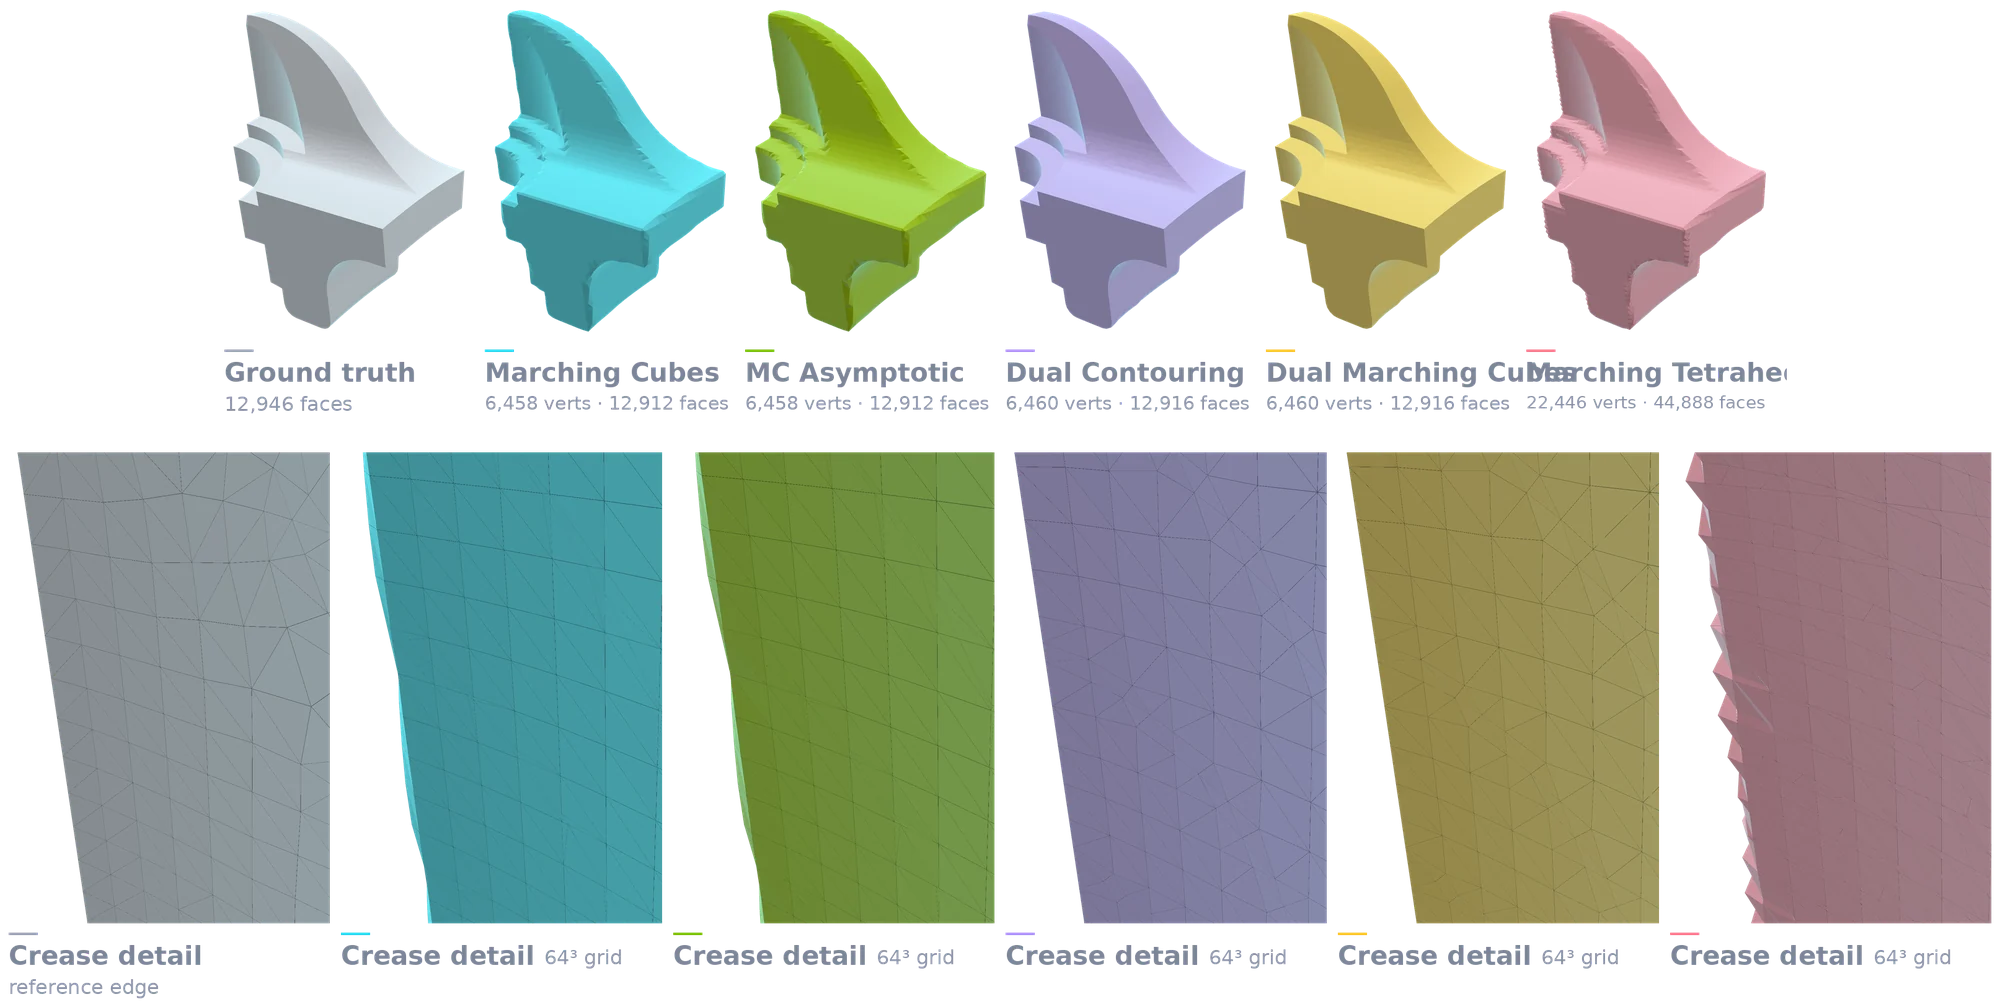
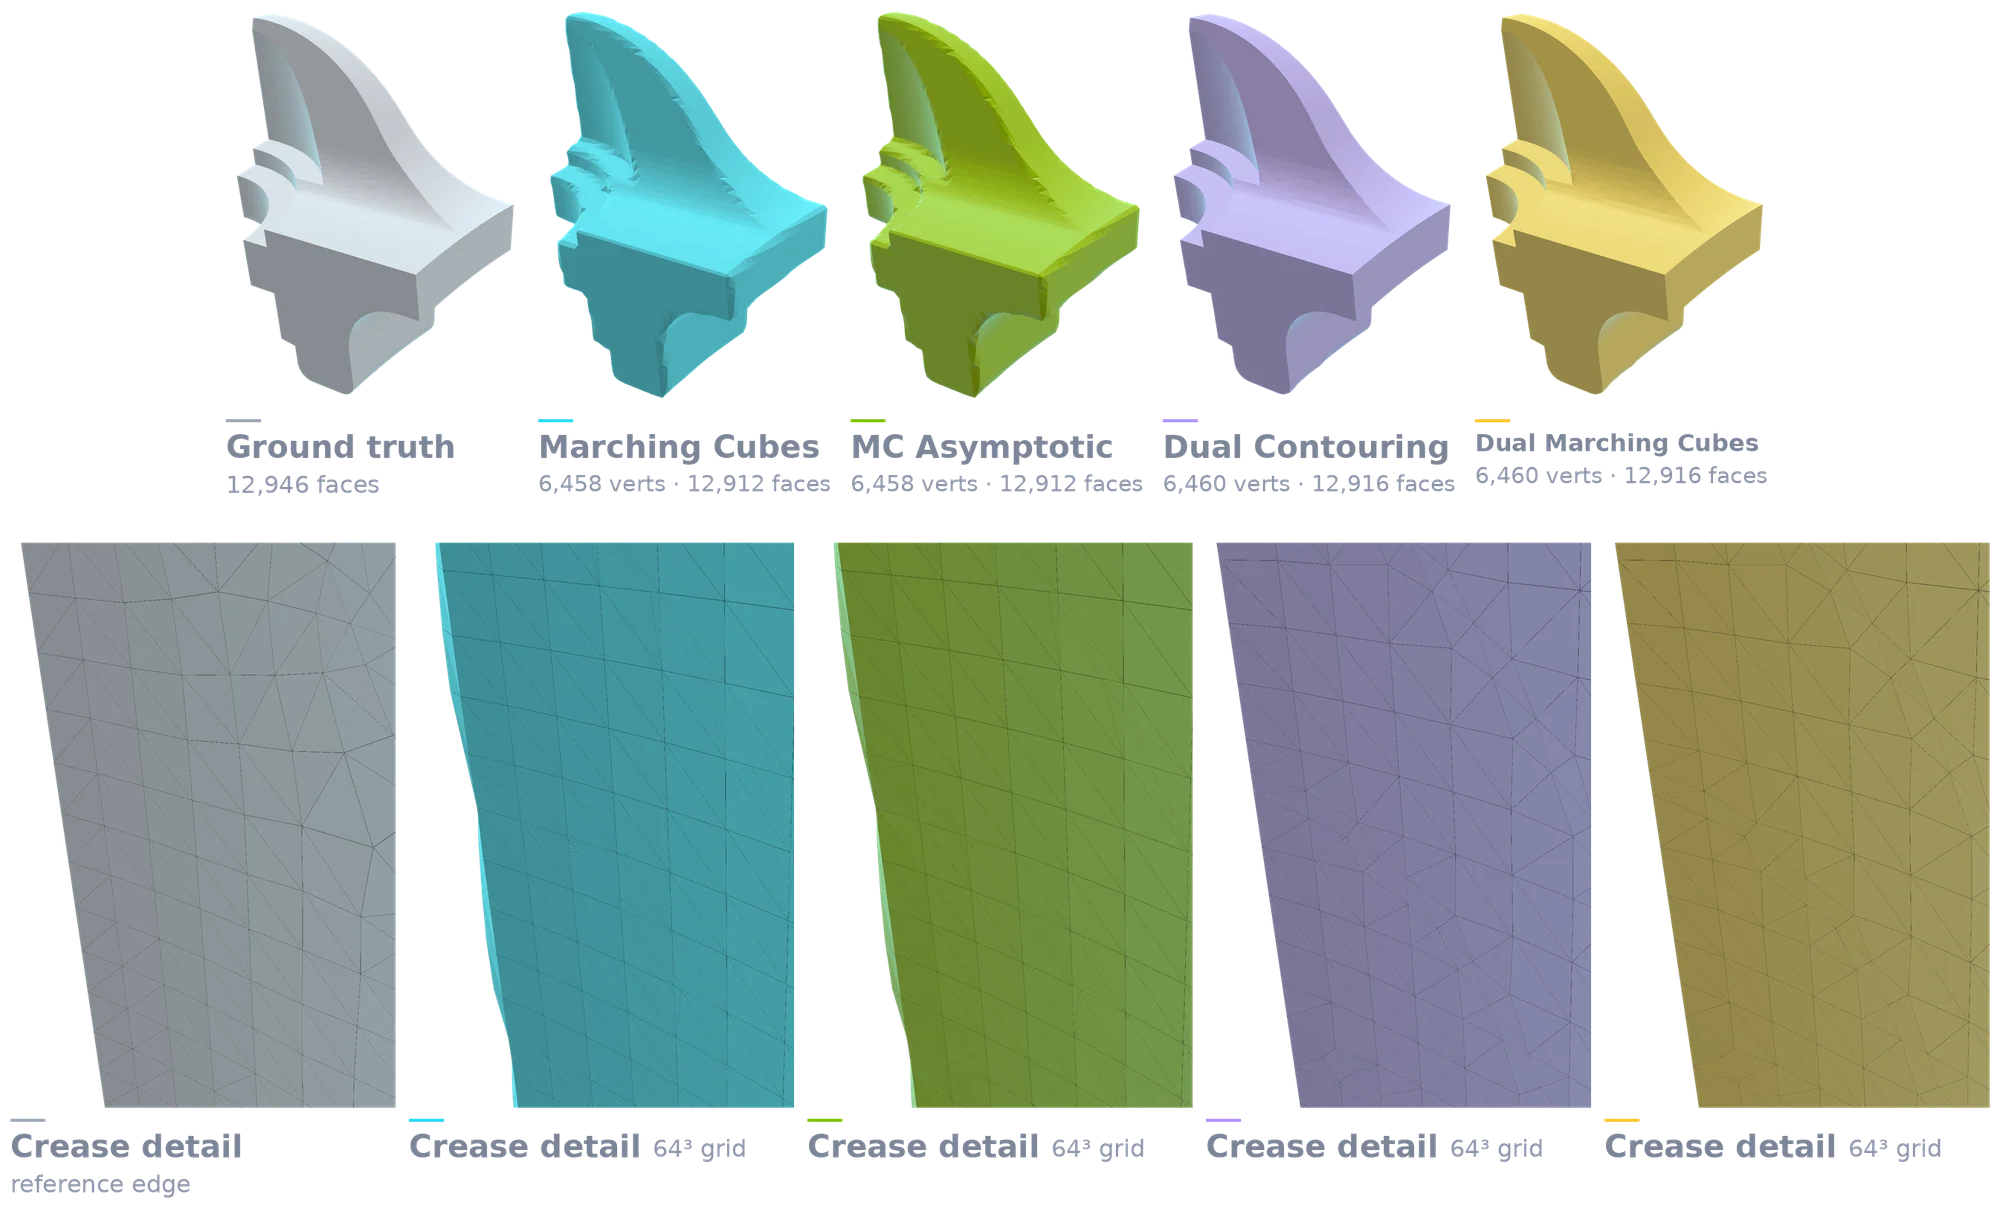
docs: drop Marching Tetrahedra from the extractor comparison
Claude-Session: https://claude.ai/code/session_01Feb3yoQjHYvNcwnLccMKf4

diff --git a/docs/index.html b/docs/index.html
@@ -94,7 +94,7 @@ verts.<span class="tok-fn">sum</span>().<span class="tok-fn">backward</span>()  
   <div class="section-head">
     <span class="kicker">Qualitative results</span>
   </div>
-  <div class="fig-grid fig-grid--wide" style="grid-template-columns:minmax(0,1fr)"><figure class="fig"><div class="fig-media"><img src="assets/img/fig-pipeline.webp?v=578c53aa73" alt="Extraction pipeline" loading="lazy" decoding="async"></div><figcaption class="fig-body"><span class="fig-kicker">Pipeline</span><h3>Extraction pipeline</h3><p>Every stage of one extraction, from input mesh to extracted surface.</p></figcaption></figure><figure class="fig"><div class="fig-media"><img src="assets/img/fig-algorithms.webp?v=de05664785" alt="Isosurface extraction" loading="lazy" decoding="async"></div><figcaption class="fig-body"><span class="fig-kicker">Comparison</span><h3>Isosurface extraction</h3><p>One signed distance field meshed by five different extractors.</p></figcaption></figure><figure class="fig"><div class="fig-media"><img src="assets/img/fig-hermite.webp?v=e53e14b4f2" alt="Sharp features" loading="lazy" decoding="async"></div><figcaption class="fig-body"><span class="fig-kicker">Sharpness</span><h3>Sharp features</h3><p>Exact Hermite data lets the dual methods reconstruct a crease instead of rounding it.</p></figcaption></figure><figure class="fig"><div class="fig-media"><img src="assets/img/fig-resolution.webp?v=08edc92823" alt="Grid resolution" loading="lazy" decoding="async"></div><figcaption class="fig-body"><span class="fig-kicker">Scaling</span><h3>Grid resolution</h3><p>The same model extracted from 64³ up to 2048³, with the error measured at each step.</p></figcaption></figure><figure class="fig"><div class="fig-media"><img src="assets/img/fig-sign-modes.webp?v=f3392288ba" alt="Sign modes" loading="lazy" decoding="async"></div><figcaption class="fig-body"><span class="fig-kicker">Robustness</span><h3>Sign modes</h3><p>One slice through a mesh, signed by each of the six ways of deciding inside.</p></figcaption></figure><figure class="fig"><div class="fig-media"><img src="assets/img/fig-normals.webp?v=e1814289ea" alt="Surface normals" loading="lazy" decoding="async"></div><figcaption class="fig-body"><span class="fig-kicker">Orientation</span><h3>Surface normals</h3><p>Normals from five extractors, coloured by direction and compared to the source.</p></figcaption></figure></div>
+  <div class="fig-grid fig-grid--wide" style="grid-template-columns:minmax(0,1fr)"><figure class="fig"><div class="fig-media"><img src="assets/img/fig-pipeline.webp?v=578c53aa73" alt="Extraction pipeline" loading="lazy" decoding="async"></div><figcaption class="fig-body"><span class="fig-kicker">Pipeline</span><h3>Extraction pipeline</h3><p>Every stage of one extraction, from input mesh to extracted surface.</p></figcaption></figure><figure class="fig"><div class="fig-media"><img src="assets/img/fig-algorithms.webp?v=0e6101368e" alt="Isosurface extraction" loading="lazy" decoding="async"></div><figcaption class="fig-body"><span class="fig-kicker">Comparison</span><h3>Isosurface extraction</h3><p>One signed distance field meshed by four different extractors.</p></figcaption></figure><figure class="fig"><div class="fig-media"><img src="assets/img/fig-hermite.webp?v=e53e14b4f2" alt="Sharp features" loading="lazy" decoding="async"></div><figcaption class="fig-body"><span class="fig-kicker">Sharpness</span><h3>Sharp features</h3><p>Exact Hermite data lets the dual methods reconstruct a crease instead of rounding it.</p></figcaption></figure><figure class="fig"><div class="fig-media"><img src="assets/img/fig-resolution.webp?v=08edc92823" alt="Grid resolution" loading="lazy" decoding="async"></div><figcaption class="fig-body"><span class="fig-kicker">Scaling</span><h3>Grid resolution</h3><p>The same model extracted from 64³ up to 2048³, with the error measured at each step.</p></figcaption></figure><figure class="fig"><div class="fig-media"><img src="assets/img/fig-sign-modes.webp?v=f3392288ba" alt="Sign modes" loading="lazy" decoding="async"></div><figcaption class="fig-body"><span class="fig-kicker">Robustness</span><h3>Sign modes</h3><p>One slice through a mesh, signed by each of the six ways of deciding inside.</p></figcaption></figure><figure class="fig"><div class="fig-media"><img src="assets/img/fig-normals.webp?v=e1814289ea" alt="Surface normals" loading="lazy" decoding="async"></div><figcaption class="fig-body"><span class="fig-kicker">Orientation</span><h3>Surface normals</h3><p>Normals from five extractors, coloured by direction and compared to the source.</p></figcaption></figure></div>
 </section>
 
 <section class="section wrap">

diff --git a/docs/_figures/make_figures.py b/docs/_figures/make_figures.py
@@ -171,8 +171,7 @@ AZ_ALGO = 218
 
 
 def fig_algorithms(rnd):
-    from conquer3d.ops import (compute_hermite_from_mesh, dc, dmc, marching_cubes,
-                               marching_tetrahedra_grid, mca)
+    from conquer3d.ops import compute_hermite_from_mesh, dc, dmc, marching_cubes, mca
 
     tmesh = load_mesh(_asset("Fandisk"))
     tmesh.compute_triangle_normals()
@@ -189,12 +188,10 @@ def fig_algorithms(rnd):
                                         edge_points=ep, edge_normals=en)),
         "Dual Marching Cubes": first_two(dmc(gv, vox, sdf, iso=0.0,
                                              edge_points=ep, edge_normals=en)),
-        "Marching Tetrahedra": first_two(marching_tetrahedra_grid(gv, vox, sdf, iso=0.0)),
     }
 
-    tints = [R.CYAN, R.GREEN, R.VIOLET, R.AMBER, R.ROSE]
-    accents = [(34, 211, 238), (118, 185, 0), (167, 139, 250),
-               (251, 191, 36), (251, 113, 133)]
+    tints = [R.CYAN, R.GREEN, R.VIOLET, R.AMBER]
+    accents = [(34, 211, 238), (118, 185, 0), (167, 139, 250), (251, 191, 36)]
 
     # Zoom where Marching Cubes and Dual Contouring disagree most: the crease.
     # Located from the plain Dual Contouring run, not the Hermite one, so that

diff --git a/docs/_gen/content.py b/docs/_gen/content.py
@@ -174,7 +174,7 @@ FIGURES = [
     ),
     (
         "fig-algorithms", "Isosurface extraction", "Comparison",
-        "One signed distance field meshed by five different extractors.",
+        "One signed distance field meshed by four different extractors.",
         True,
     ),
     (

diff --git a/README.md b/README.md
@@ -69,11 +69,12 @@ on the **[showcase](https://khoidoo.github.io/conquer3d/)**.
 
 ### Isosurface extraction
 
-<img src="docs/assets/img/fig-algorithms.webp" alt="Five extractors on one signed distance field" width="100%">
+<img src="docs/assets/img/fig-algorithms.webp" alt="Four extractors on one signed distance field" width="100%">
 
-One signed distance field on a 64³ narrow-band grid of 19,329 cells, meshed by five
-extractors, with the source mesh on the left. The lower row crops the crease where
-Marching Cubes and Dual Contouring disagree most.
+One signed distance field on a 64³ narrow-band grid of 19,329 cells, meshed by four
+extractors — Marching Cubes, MC Asymptotic, Dual Contouring and Dual Marching Cubes —
+with the source mesh on the left. The lower row crops the crease where Marching Cubes
+and Dual Contouring disagree most.
 
 ### Sharp features from Hermite data
 
